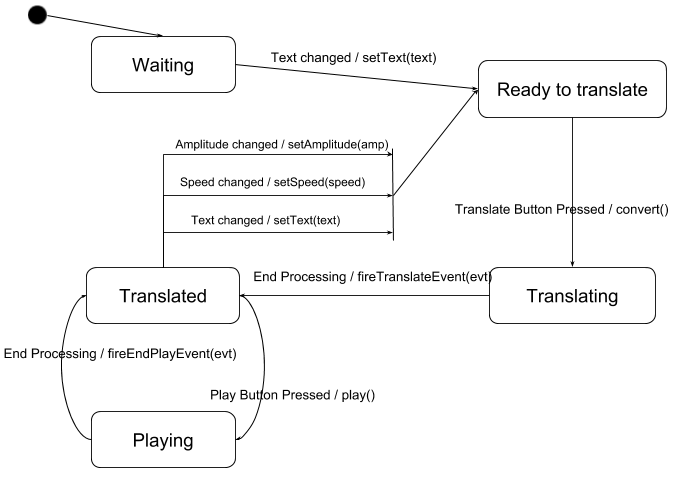
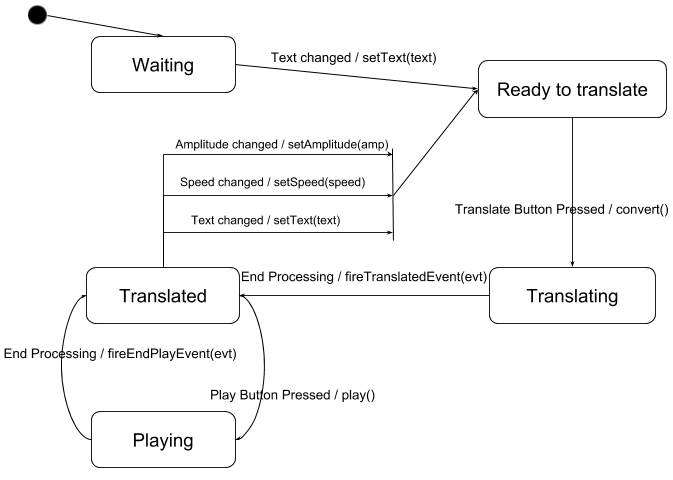
update doc

Changed region(s): [[0.3432, 0.5625, 0.7489, 0.5938]]

diff --git a/document/Morse-Tranlator.tex b/document/Morse-Tranlator.tex
@@ -27,7 +27,7 @@ ENSISA,\\
     \begin{center}
         \large{Lien vers le logiciel de gestion de versions du projet :} \texttt{https://github.com/LaroyenneG/Morse-Tranlator.git}
         \\[2cm]
-        \textit{Version de java utilisée : \texttt{\underline{Open JDK 1.7.0}}}
+        \textit{Version de java utilisée : \texttt{\underline{Open JDK 1.8.0}}}
     \end{center}
 
     \newpage
@@ -44,7 +44,7 @@ ENSISA,\\
     Durant la phase de traduction, un nouveau texte est créé contenant le code Morse équivalent au texte donné au composant. Un signal analogique sera également construit correspondant au signal audio du message en Morse. Néanmoins, la construction du signal et sa lecture peuvent prendre un temps conséquent. Pour éviter que ces deux fonctionnalités du composant soient bloquante, les traitements sont effectués à l'intérieur de processus léger. Pour informer d'autres composants d'une application que ces opérations sont terminées, la programmation par événement a été utilisée.\\
     Il existe donc deux événements dans l'application :
     \begin{description}
-        \item[\textit{TranslateEvent}] : Événement produit lorsque le processus de traduction et de construction du signal est terminé.
+        \item[\textit{TranslatedEvent}] : Événement produit lorsque le processus de traduction et de construction du signal est terminé.
         \item[\textit{EndPlayEvent}] : Événement produit lorsque le processus de lecture audio est terminé.
     \end{description}
     \paragraph{}

diff --git a/src/morse/translator/MorseTranslator.java b/src/morse/translator/MorseTranslator.java
@@ -64,8 +64,8 @@ public class MorseTranslator extends Canvas {
             @Override
             public void run() {
                 signal = null;
-                translateText = MorseHelper.encodeText(text);
-                signal = MorseHelper.buildSignal(translateText, speed, amplitude);
+                translateText = MorseTranslatorHelper.encodeText(text);
+                signal = MorseTranslatorHelper.buildSignal(translateText, speed, amplitude);
 
                 System.gc(); // La construction du signal consomme beaucoup de mémoire temporaire, alors on force un passage du Garbage Collector pour nettoyer la mémoire
 

diff --git a/src/morse/translator/MorseTranslatorHelper.java b/src/morse/translator/MorseTranslatorHelper.java
@@ -16,7 +16,7 @@ import java.util.Map;
  * Elle contient toutes les méthodes de traduction utiles au composant MorseTranslator.
  */
 
-public final class MorseHelper {
+public final class MorseTranslatorHelper {
 
 
     private static final double FREQ = 550.0;
@@ -34,6 +34,7 @@ public final class MorseHelper {
 
     private static Map<Character, char[]> morseCode;
 
+
     static {
 
         morseCode = new HashMap<>();
@@ -47,8 +48,7 @@ public final class MorseHelper {
         }
     }
 
-
-    private MorseHelper() {
+    private MorseTranslatorHelper() {
         // can not instantiate
     }
 
